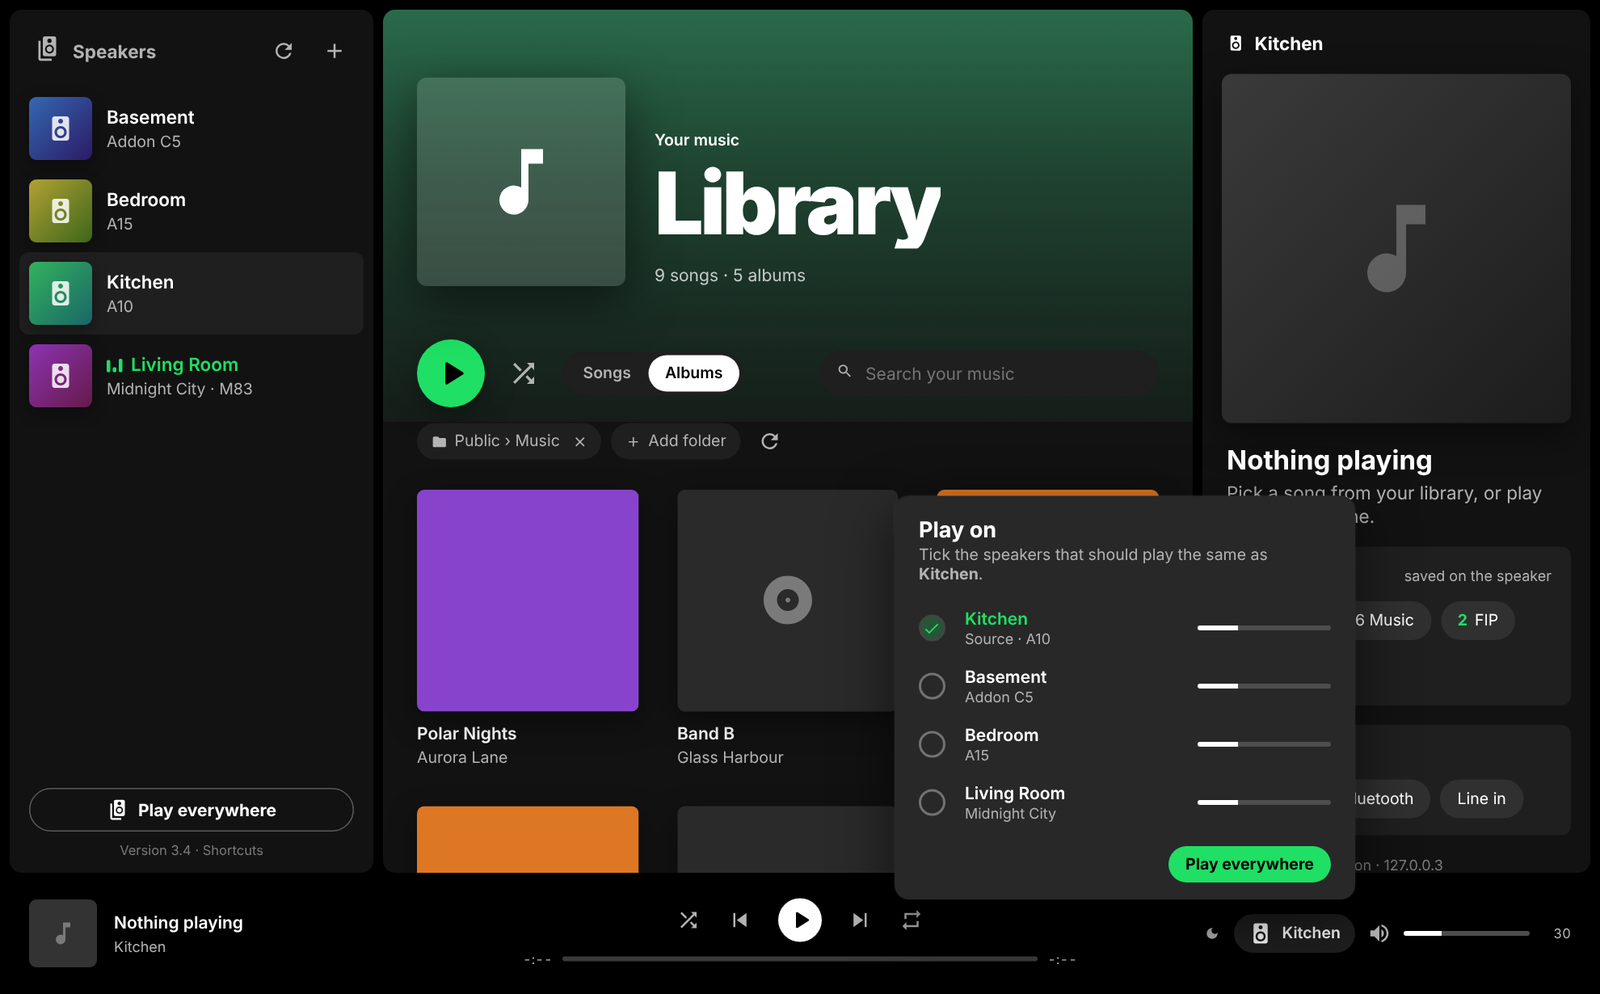
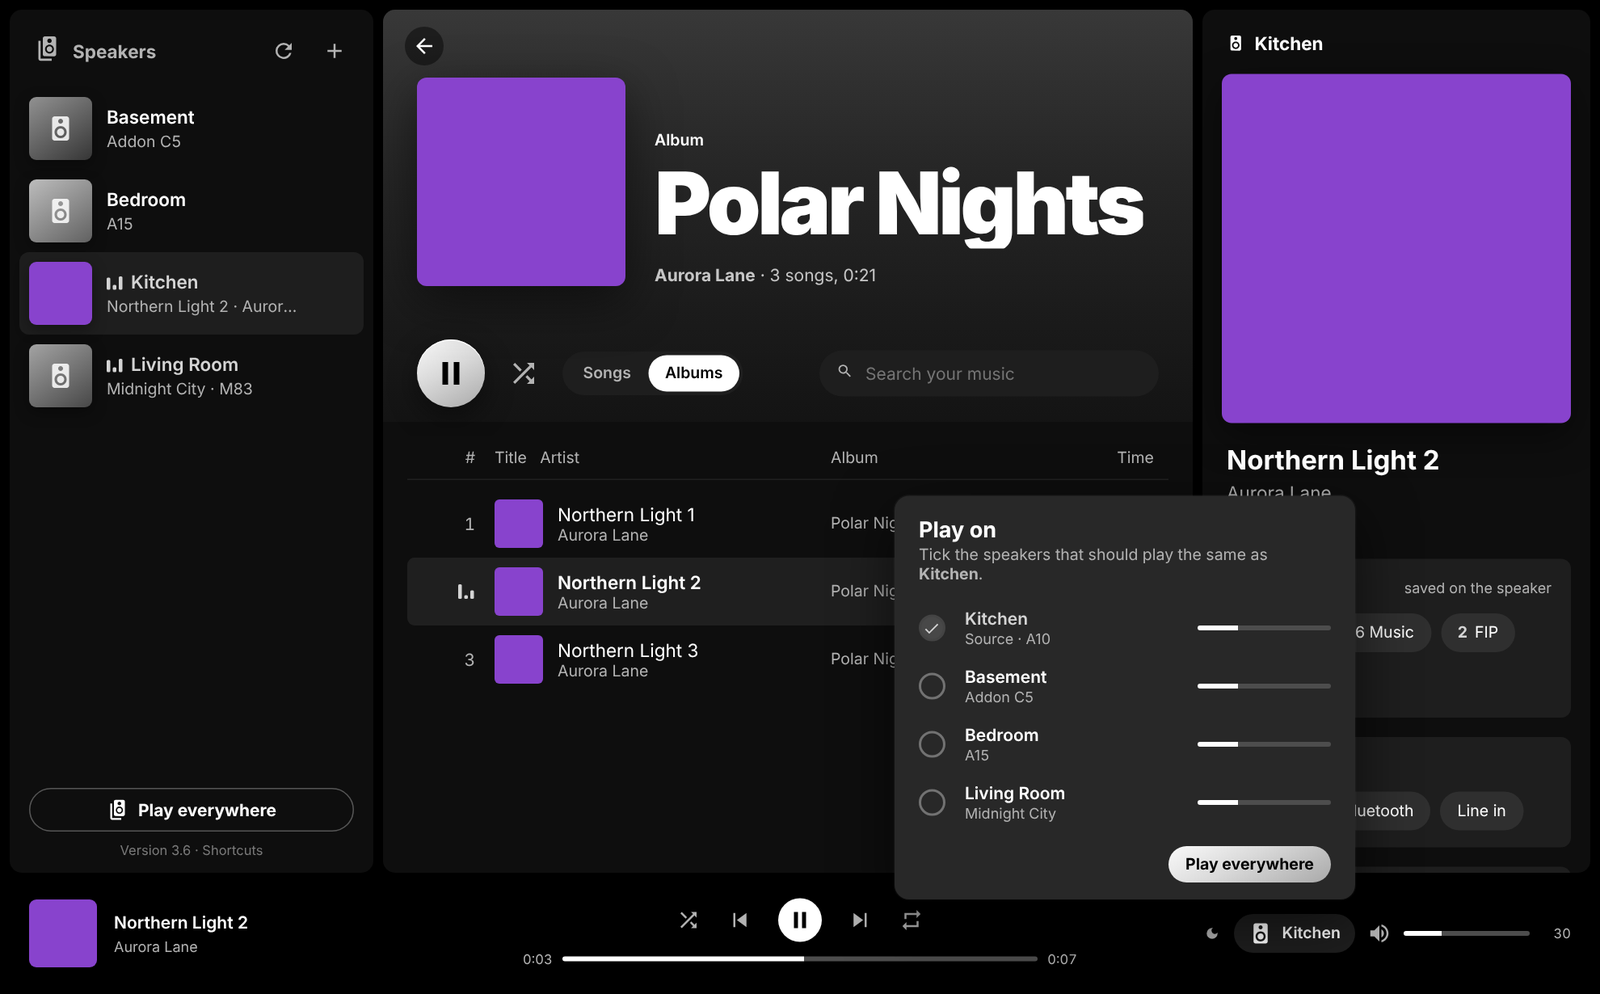
Audio Pro Control 3.6: black and silver look
Grey and silver instead of green: silver play buttons and checks,
graphite speaker tiles, grey headers that follow the cover's brightness.

Claude-Session: https://claude.ai/code/session_01PtFYKUVvNY6qSzew5bEpSk

diff --git a/ui.html b/ui.html
@@ -7,11 +7,13 @@
 <link rel="icon" href="/app.ico">
 <style>
 :root{
-  --bg:#000; --panel:#121212; --panel2:#181818; --raise:#1f1f1f; --hover:#2a2a2a; --sel:#333;
+  --bg:#000; --panel:#0e0e0e; --panel2:#161616; --raise:#1e1e1e; --hover:#2a2a2a; --sel:#333;
   --pop:#282828; --line:rgba(255,255,255,.08);
   --text:#fff; --muted:#b3b3b3; --dim:#7a7a7a;
-  --accent:#1fdf64; --accent-hi:#3be477; --danger:#f15e6c; --warn:#f5a623;
-  --hero:42,107,74;
+  --accent:#d4d4d4; --accent-hi:#fff; --danger:#f15e6c; --warn:#f5a623;
+  --silver:linear-gradient(150deg,#fafafa 0%,#d9d9d9 45%,#a9a9a9 100%);
+  --silver-hi:linear-gradient(150deg,#fff 0%,#ececec 45%,#c4c4c4 100%);
+  --hero:52,52,52;
   --r:10px;
   font-family:"Segoe UI Variable Text","Segoe UI",system-ui,-apple-system,sans-serif;
   color-scheme:dark;
@@ -56,7 +58,7 @@ svg{width:1em;height:1em;fill:currentColor;flex:none}
   background-size:cover;background-position:center;box-shadow:0 4px 12px rgba(0,0,0,.35);position:relative;overflow:hidden}
 .room.off .tile{filter:grayscale(1)}
 .room-name{font-weight:600;font-size:15px;white-space:nowrap;overflow:hidden;text-overflow:ellipsis;display:flex;align-items:center;gap:6px}
-.room.playing .room-name{color:var(--accent)}
+.room.playing .room-name{color:var(--accent);font-weight:600}
 .room-sub{color:var(--muted);font-size:13px;white-space:nowrap;overflow:hidden;text-overflow:ellipsis;margin-top:3px}
 .dot{display:inline-block;width:6px;height:6px;border-radius:50%;background:var(--danger);margin-right:6px;vertical-align:middle}
 .dot.wait{background:var(--warn);animation:pulse 1.2s ease-in-out infinite}
@@ -72,8 +74,8 @@ svg{width:1em;height:1em;fill:currentColor;flex:none}
 .pill:active{transform:scale(.97)}
 .pill.ghost{border:1px solid rgba(255,255,255,.3)}
 .pill.ghost:hover{border-color:#fff;transform:scale(1.02)}
-.pill.solid{background:var(--accent);color:#000}
-.pill.solid:hover{background:var(--accent-hi);transform:scale(1.03)}
+.pill.solid{background:var(--silver);color:#000}
+.pill.solid:hover{background:var(--silver-hi);transform:scale(1.03)}
 .pill.light{background:#fff;color:#000}
 .pill.light:hover{transform:scale(1.03)}
 .pill.small{height:30px;padding:0 14px;font-size:13px}
@@ -100,8 +102,8 @@ svg{width:1em;height:1em;fill:currentColor;flex:none}
 .hero .back{position:absolute;top:14px;left:18px;background:rgba(0,0,0,.45);color:#fff}
 .hero .back:hover{background:rgba(0,0,0,.7)}
 .toolbar{display:flex;align-items:center;gap:14px;min-width:0;padding:20px 28px 12px;background:linear-gradient(180deg,rgba(var(--hero),.3),transparent 160px)}
-.bigplay{width:56px;height:56px;min-width:56px;aspect-ratio:1;border-radius:50%;background:var(--accent);color:#000;display:grid;place-items:center;box-shadow:0 8px 24px rgba(0,0,0,.35);transition:transform .1s,background .15s}
-.bigplay:hover{transform:scale(1.05);background:var(--accent-hi)}
+.bigplay{width:56px;height:56px;min-width:56px;aspect-ratio:1;border-radius:50%;background:var(--silver);color:#000;display:grid;place-items:center;box-shadow:0 8px 24px rgba(0,0,0,.45),inset 0 1px 0 rgba(255,255,255,.9);transition:transform .1s,background .15s}
+.bigplay:hover{transform:scale(1.05);background:var(--silver-hi)}
 .bigplay svg{font-size:28px}
 .toggle{color:var(--muted);width:36px;height:36px;display:grid;place-items:center;position:relative}
 .toggle:hover{color:#fff}
@@ -151,16 +153,17 @@ svg{width:1em;height:1em;fill:currentColor;flex:none}
 .t .artist,.row .al,.row .d{color:var(--muted);font-size:13px;white-space:nowrap;overflow:hidden;text-overflow:ellipsis}
 .link{cursor:pointer}
 .link:hover{color:#fff;text-decoration:underline}
-.row.cur .title{color:var(--accent)}
+.row.cur .title{color:#fff;font-weight:600}
+.row.cur{background:rgba(255,255,255,.07)}
 .row .d{font-variant-numeric:tabular-nums}
 .more-rows{color:var(--muted);text-align:center;padding:16px;font-size:13px}
 .grid{display:grid;grid-template-columns:repeat(auto-fill,minmax(168px,1fr));gap:8px;padding:0 16px 24px}
 .card-a{padding:12px;border-radius:8px;cursor:pointer;transition:background .2s;min-width:0;position:relative}
 .card-a:hover{background:var(--raise)}
 .card-a .cover{width:100%;aspect-ratio:1;border-radius:6px;background:#2a2a2a center/cover;display:grid;place-items:center;font-size:48px;color:var(--dim);box-shadow:0 8px 24px rgba(0,0,0,.4);margin-bottom:10px;position:relative}
-.card-a .ap{position:absolute;right:8px;bottom:8px;width:44px;height:44px;border-radius:50%;background:var(--accent);color:#000;display:grid;place-items:center;font-size:22px;opacity:0;transform:translateY(8px);transition:.2s;box-shadow:0 8px 16px rgba(0,0,0,.4)}
+.card-a .ap{position:absolute;right:8px;bottom:8px;width:44px;height:44px;border-radius:50%;background:var(--silver);color:#000;display:grid;place-items:center;font-size:22px;opacity:0;transform:translateY(8px);transition:.2s;box-shadow:0 8px 16px rgba(0,0,0,.4)}
 .card-a:hover .ap{opacity:1;transform:none}
-.card-a .ap:hover{background:var(--accent-hi);transform:scale(1.05)}
+.card-a .ap:hover{background:var(--silver-hi);transform:scale(1.05)}
 .card-a .at{font-weight:600;font-size:14px;white-space:nowrap;overflow:hidden;text-overflow:ellipsis}
 .card-a .aa{color:var(--muted);font-size:13px;white-space:nowrap;overflow:hidden;text-overflow:ellipsis;margin-top:3px}
 .empty{margin:40px auto;max-width:420px;text-align:center;padding:40px 28px;border-radius:14px;background:var(--panel2)}
@@ -246,10 +249,10 @@ input[type=range].vol{width:104px;flex:0 1 104px;min-width:60px}
 .drow.main .nm{color:var(--accent)}
 .check{width:22px;height:22px;border-radius:50%;border:2px solid #727272;display:grid;place-items:center;color:#000;transition:.15s}
 .check:hover{border-color:#fff}
-.check.on{background:var(--accent);border-color:var(--accent)}
+.check.on{background:var(--accent);border-color:var(--accent);color:#000}
 .check svg{font-size:15px;opacity:0}
 .check.on svg{opacity:1}
-.check.lock{background:rgba(31,223,100,.25);border-color:transparent;color:var(--accent);cursor:default}
+.check.lock{background:rgba(255,255,255,.15);border-color:transparent;color:var(--accent);cursor:default}
 .check.lock svg{opacity:1}
 .check.busy{border-color:var(--warn);border-top-color:transparent;animation:spin .8s linear infinite;background:none}
 .check.busy svg{opacity:0}
@@ -369,7 +372,7 @@ const esc = s => String(s ?? '').replace(/[&<>"']/g, c => ({'&':'&amp;','<':'&lt
 const cssUrl = u => "url('" + esc(String(u).replace(/['\\\s]/g, c => '%' + c.charCodeAt(0).toString(16).padStart(2, '0'))) + "')";
 const fmt = s => { s = Math.max(0, Math.floor(s||0)); const h=Math.floor(s/3600), m=Math.floor(s%3600/60), x=String(s%60).padStart(2,'0'); return h? `${h}:${String(m).padStart(2,'0')}:${x}` : `${m}:${x}`; };
 const hue = s => { let h=0; for (const c of String(s)) h=(h*31+c.charCodeAt(0))%360; return h; };
-const tileBg = name => { const h=hue(name); return `linear-gradient(135deg,hsl(${h} 55% 45%),hsl(${(h+40)%360} 60% 25%))`; };
+const tileBg = name => { const l = 30 + hue(name) % 30; return `linear-gradient(145deg,hsl(0 0% ${l + 22}%),hsl(0 0% ${l - 14}%))`; };
 const lsGet = k => { try { return localStorage.getItem(k); } catch(e) { return null; } };
 const lsSet = (k,v) => { try { localStorage.setItem(k,v); } catch(e) {} };
 const plural = (n, w) => `${n.toLocaleString()} ${w}${n === 1 ? '' : 's'}`;
@@ -690,7 +693,7 @@ function currentTrackId() { const t = target(); return t && t.local && t.queue ?
 const heroColors = {};
 function tintHero(artId) {
   const set = rgb => document.documentElement.style.setProperty('--hero', rgb);
-  if (!artId) return set('42,107,74');
+  if (!artId) return set('52,52,52');
   if (heroColors[artId]) return set(heroColors[artId]);
   const img = new Image();
   img.onload = () => {
@@ -699,8 +702,11 @@ function tintHero(artId) {
       const x = c.getContext('2d'); x.drawImage(img, 0, 0, 16, 16);
       const d = x.getImageData(0, 0, 16, 16).data; let r = 0, g = 0, b = 0;
       for (let i = 0; i < d.length; i += 4) { r += d[i]; g += d[i+1]; b += d[i+2]; }
-      const n = d.length / 4, k = 0.72;      // a little darker so white text stays readable
-      heroColors[artId] = [r, g, b].map(v => Math.round(v / n * k)).join(',');
+      const n = d.length / 4;
+      // grey, never colour: the cover's brightness, kept dark enough for white text
+      const lum = (0.2126 * r + 0.7152 * g + 0.0722 * b) / n;
+      const v = Math.round(36 + lum * 0.22);
+      heroColors[artId] = [v, v, v].join(',');
       if (albumSel && lib.albumById[albumSel]?.artId === artId) set(heroColors[artId]);
     } catch (e) {}
   };

diff --git a/README.md b/README.md
@@ -3,7 +3,7 @@
 [![Latest release](https://img.shields.io/github/v/release/djingu/Audio-Pro-for-Windows?label=download&color=1ed760)](https://github.com/djingu/Audio-Pro-for-Windows/releases/latest)
 [![License: MIT](https://img.shields.io/badge/license-MIT-blue)](LICENSE)
 
-Control your **Audio Pro Wi-Fi speakers from Windows 11**: play, pause and set the volume, switch inputs, group speakers so they play the same music, and play the music files on your PC. The look is inspired by Spotify.
+Control your **Audio Pro Wi-Fi speakers from Windows 11**: play, pause and set the volume, switch inputs, group speakers so they play the same music, and play the music files on your PC. It has a black and silver look.
 
 Works with both Audio Pro speaker generations, and you can mix them in one group:
 
@@ -27,7 +27,7 @@ Works with both Audio Pro speaker generations, and you can mix them in one group
 
 ## Install
 
-1. Download **AudioProControl-3.5.zip** (or the newest version) from the [latest release](https://github.com/djingu/Audio-Pro-for-Windows/releases/latest) and unzip it anywhere. (Or click the green **Code** button on this page → **Download ZIP**; it contains the same files.)
+1. Download **AudioProControl-3.6.zip** (or the newest version) from the [latest release](https://github.com/djingu/Audio-Pro-for-Windows/releases/latest) and unzip it anywhere. (Or click the green **Code** button on this page → **Download ZIP**; it contains the same files.)
 2. Double-click **Install.bat**. It also updates an older version.
    - If Windows asks whether to run it, choose **Run** (or **More info → Run anyway**).
    - If Python 3 isn't installed, the installer fetches it with `winget` (one time, about 30 MB).
